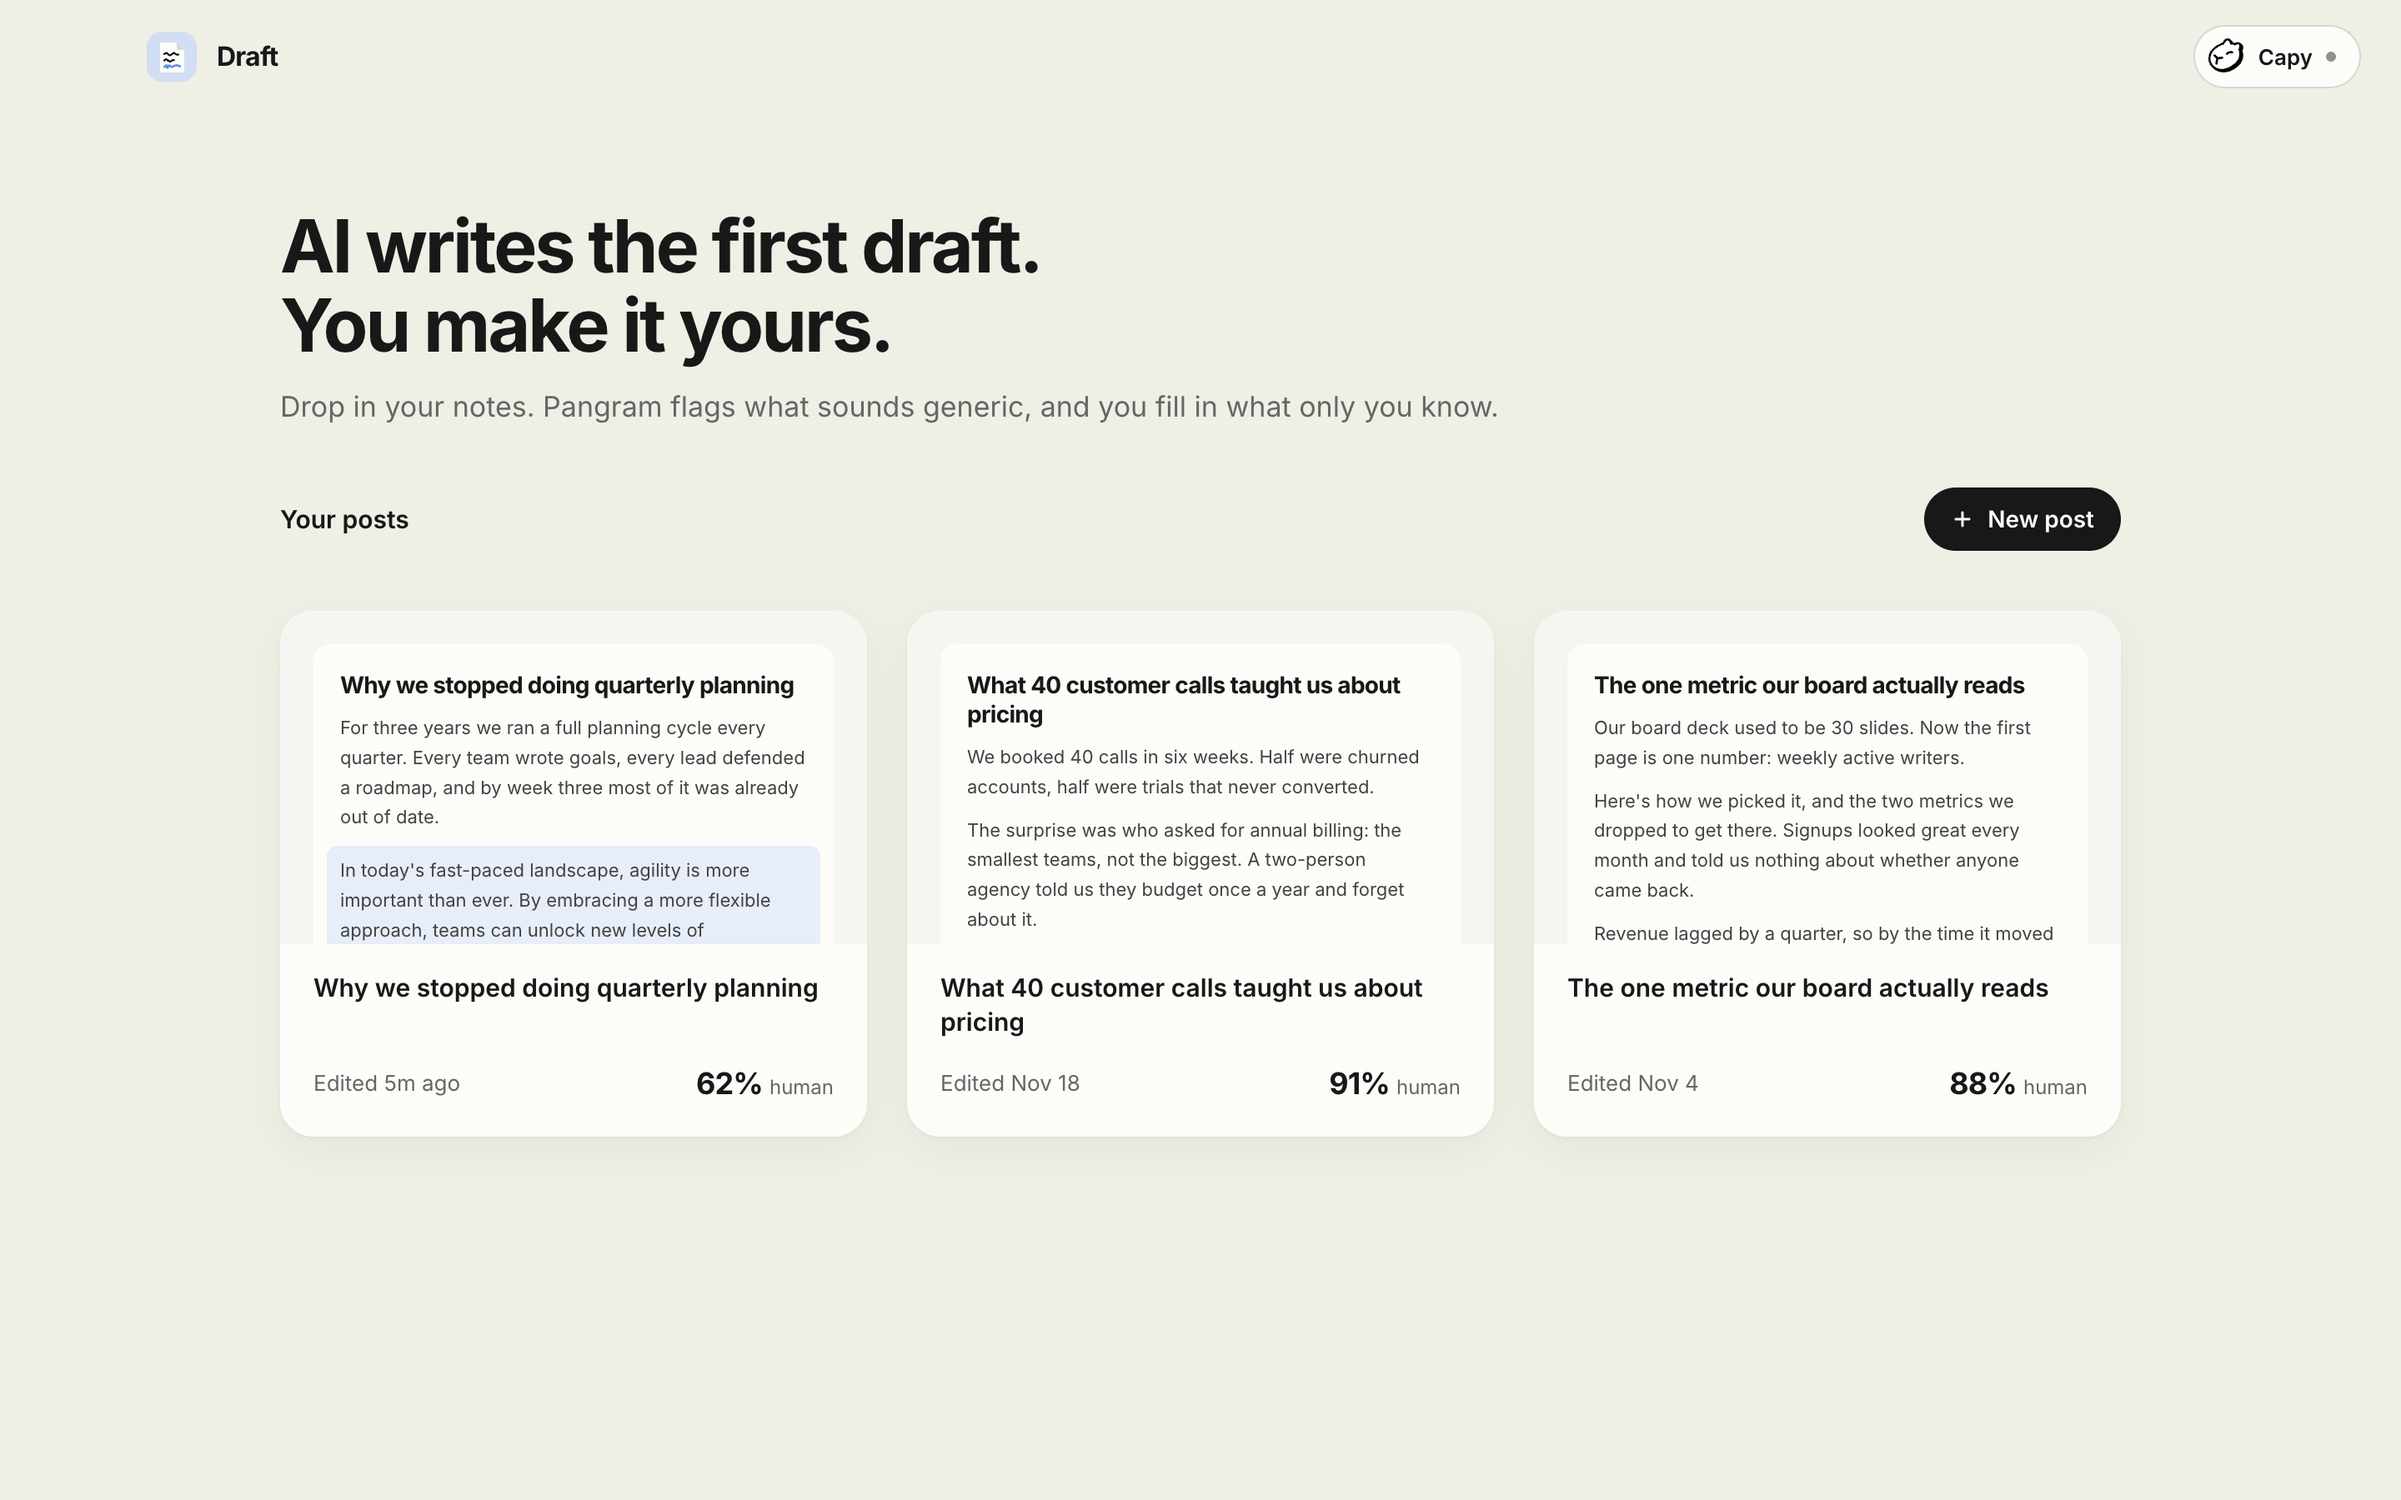
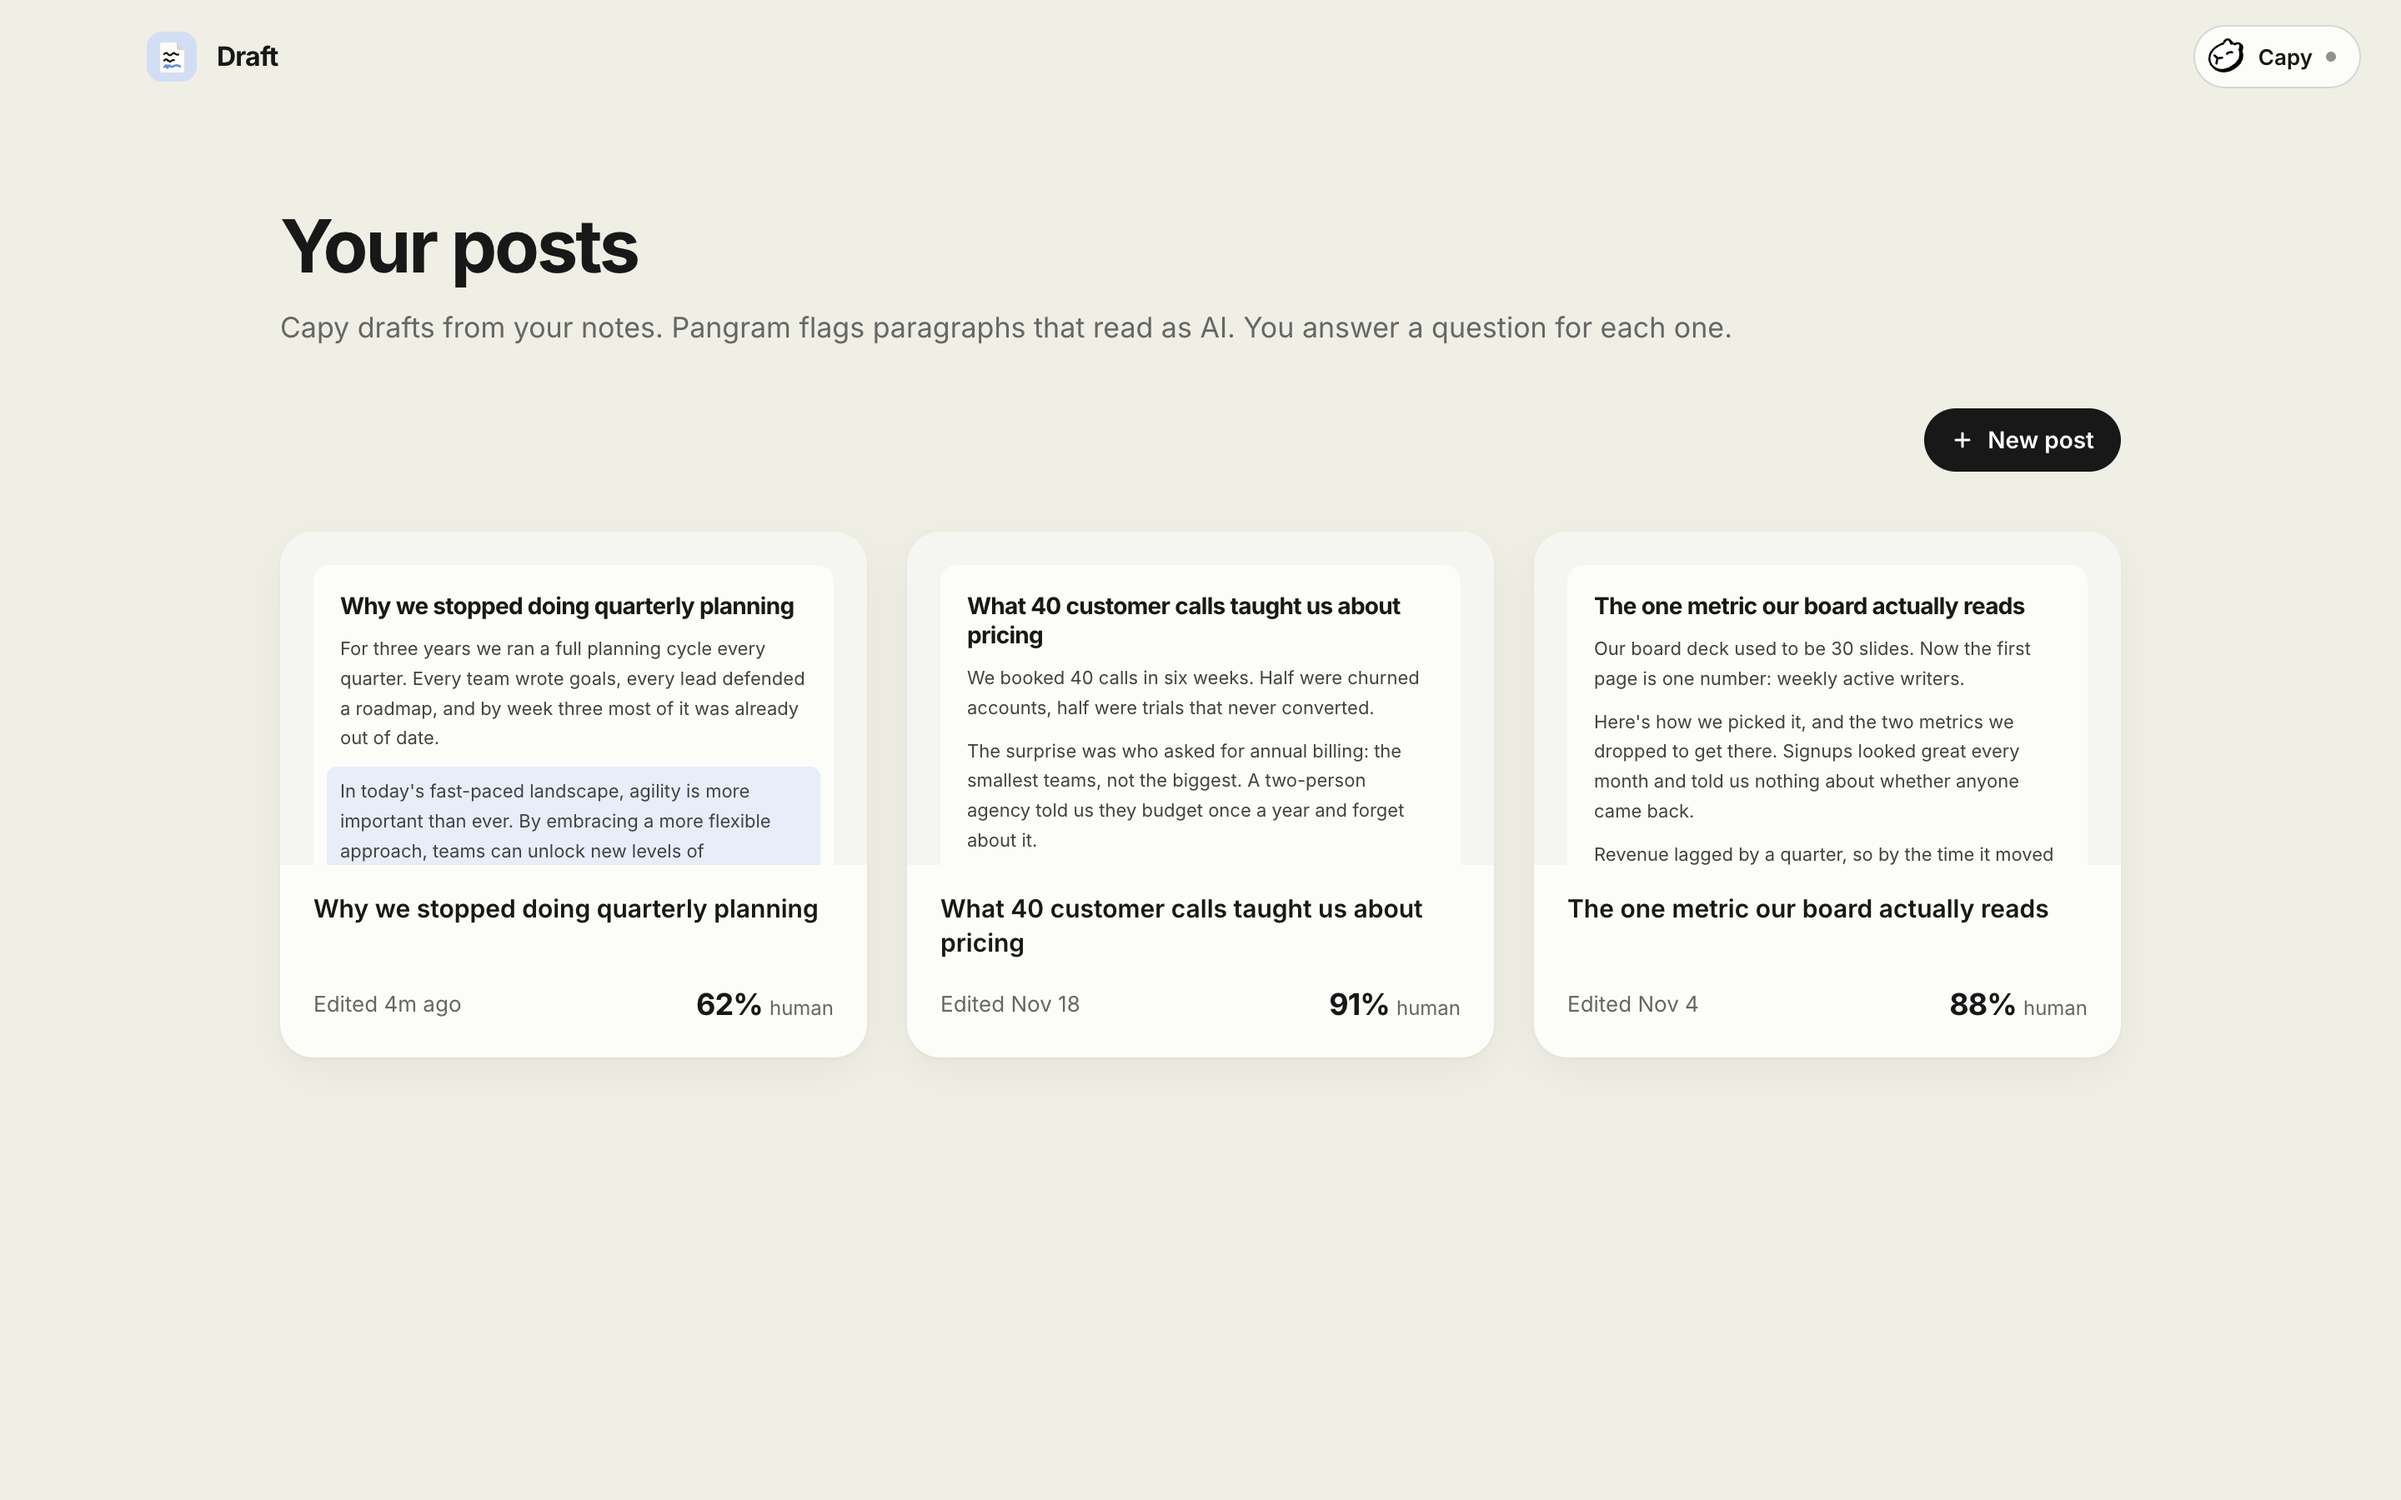
Replace catchphrase copy with plain descriptions

diff --git a/apps/desktop/src/renderer/src/screens/Home.tsx b/apps/desktop/src/renderer/src/screens/Home.tsx
@@ -50,16 +50,13 @@ export function Home({ navigate }: { navigate: (route: Route) => void }) {
         <div className="flex w-[1104px] flex-col gap-9">
           <div className="flex flex-col gap-3">
             <h1 className="text-[44px] leading-[1.08] font-bold tracking-[-0.035em] text-ink">
-              AI writes the first draft.
-              <br />
-              You make it yours.
+              Your posts
             </h1>
             <p className="text-[17px] leading-normal text-subtle">
-              Drop in your notes. Pangram flags what sounds generic, and you fill in what only you know.
+              Capy drafts from your notes. Pangram flags paragraphs that read as AI. You answer a question for each one.
             </p>
           </div>
-          <div className="flex items-center justify-between">
-            <span className="text-[15px] font-semibold text-ink">Your posts</span>
+          <div className="flex items-center justify-end">
             <button onClick={() => navigate({ name: "new" })} className="flex h-[38px] items-center gap-2 rounded-full bg-ink px-4">
               <svg width="14" height="14" viewBox="0 0 24 24" fill="none" stroke="#FCFCF9" strokeWidth="2.5" strokeLinecap="round">
                 <path d="M12 5v14M5 12h14" />
@@ -70,7 +67,7 @@ export function Home({ navigate }: { navigate: (route: Route) => void }) {
           {posts && posts.length === 0 && (
             <div className="card flex flex-col items-start gap-3 p-8">
               <span className="text-lg font-semibold text-ink">No posts yet</span>
-              <span className="text-sm text-subtle">Start with your notes. Capy writes the first draft, you make it yours.</span>
+              <span className="text-sm text-subtle">Create one from your notes.</span>
             </div>
           )}
           <div className="grid grid-cols-3 gap-6">

diff --git a/apps/desktop/src/renderer/src/screens/Editor.tsx b/apps/desktop/src/renderer/src/screens/Editor.tsx
@@ -63,7 +63,7 @@ function ScoreCard({ post, checking, onCheck, pangram }: { post: Post; checking:
             {stale
               ? "The post changed since the last check."
               : flagged === 0
-                ? "Every paragraph reads as human."
+                ? "No paragraphs flagged."
                 : `${flagged} of ${post.paragraphs.length} paragraphs still read as AI-written.`}
           </span>
         </>
@@ -149,7 +149,7 @@ function QuestionCard({ postId, paragraph, index, active, onSelect }: { postId: 
           </div>
         </>
       ) : (
-        <span className="text-[15px] leading-snug text-subtle">Capy hasn't asked about this paragraph yet. Connect Capy and ask it to humanize the post.</span>
+        <span className="text-[15px] leading-snug text-subtle">Capy hasn't asked about this paragraph yet. Connect Capy and ask it to work through the flagged paragraphs.</span>
       )}
     </div>
   );

diff --git a/apps/desktop/src/renderer/src/screens/NewPost.tsx b/apps/desktop/src/renderer/src/screens/NewPost.tsx
@@ -19,7 +19,7 @@ export function NewPost({ navigate }: { navigate: (route: Route) => void }) {
         <div className="flex w-[760px] flex-col gap-6">
           <div className="flex flex-col gap-2">
             <h1 className="text-[34px] leading-tight font-bold tracking-[-0.03em] text-ink">Start with your notes</h1>
-            <p className="text-base text-subtle">An outline, bullet points, half-finished thoughts. Capy turns them into a first draft.</p>
+            <p className="text-base text-subtle">Paste your notes or an outline. Capy writes the first draft from them.</p>
           </div>
           <div className="card flex flex-col gap-4 p-5">
             <input

diff --git a/mcp/src/index.ts b/mcp/src/index.ts
@@ -63,7 +63,7 @@ const server = new McpServer(
   { name: "draft", version: "0.1.0" },
   {
     instructions: `You are editing one Draft blog post: "${title}" (id ${postId}).
-Draft keeps the post human. Workflow:
+Your job is to draft the post and revise flagged paragraphs using the author's answers. Workflow:
 1. get_post to read the author's notes and the current paragraphs.
 2. If there are no paragraphs, write_draft from the notes.
 3. score_post runs Pangram and flags paragraphs that read as AI-written.

diff --git a/apps/desktop/src/renderer/src/components/TopBar.tsx b/apps/desktop/src/renderer/src/components/TopBar.tsx
@@ -27,7 +27,7 @@ export type Step = "notes" | "draft" | "humanize" | "export";
 const STEPS: { id: Step; label: string }[] = [
   { id: "notes", label: "Notes" },
   { id: "draft", label: "Draft" },
-  { id: "humanize", label: "Humanize" },
+  { id: "humanize", label: "Revise" },
   { id: "export", label: "Export" },
 ];
 

diff --git a/README.md b/README.md
@@ -1,8 +1,8 @@
 # Draft
 
-**AI writes the first draft. You make it yours.**
+Iterate on blog posts through Pangram and Capy.
 
-Draft is a desktop app for writing blog posts with an AI agent without ending up with generic AI prose. Your agent writes the first draft from your notes over MCP, [Pangram](https://www.pangram.com) scores every paragraph, and the ones that read as AI-written get a question only you can answer: an example, a number, an opinion. Your answers get worked back in until the post sounds like you. Export to Markdown, Word or PDF when it's done.
+Draft is a desktop app for writing blog posts with an AI agent and revising the paragraphs Pangram flags as AI-written. Your agent writes the first draft from your notes over MCP, [Pangram](https://www.pangram.com) scores every paragraph, and the ones that read as AI-written get a question only you can answer: an example, a number, an opinion. Your answers get worked back in until the post sounds like you. Export to Markdown, Word or PDF when it's done.
 
 ![Draft home screen](docs/home.png)
 
@@ -30,7 +30,7 @@ Each post has its own MCP connection. Open a post, click the **Capy** chip in th
 node /path/to/draft-two/mcp/src/index.ts --post 1
 ```
 
-**Capy:** in Settings → MCP & plugins, add an MCP server with transport **STDIO**, key `draft`, command `node` and arguments `/path/to/draft-two/mcp/src/index.ts`, `--post`, `1`. Run the thread on the Mac where Draft is installed, then ask Capy to write and humanize the post.
+**Capy:** in Settings → MCP & plugins, add an MCP server with transport **STDIO**, key `draft`, command `node` and arguments `/path/to/draft-two/mcp/src/index.ts`, `--post`, `1`. Run the thread on the Mac where Draft is installed, then ask Capy to draft the post and work through the flagged paragraphs.
 
 **Claude Code and other clients:**
 
